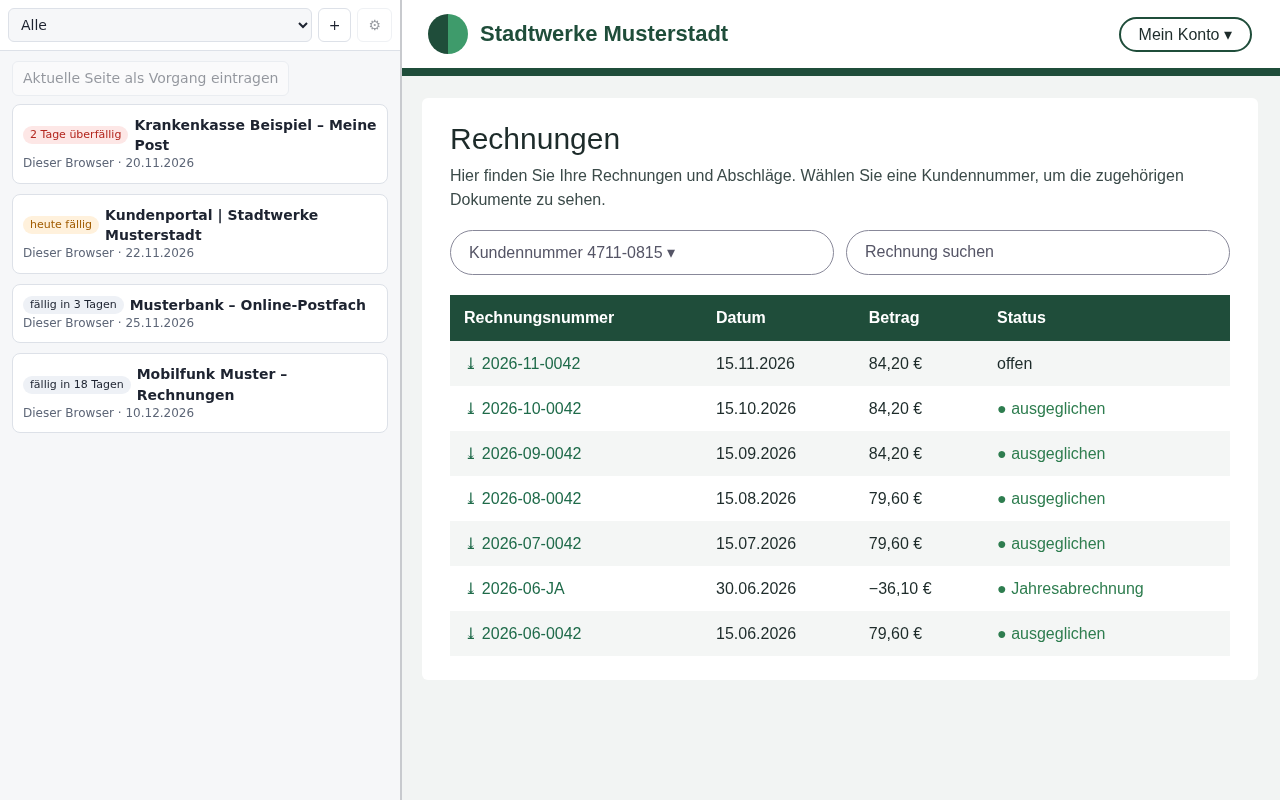
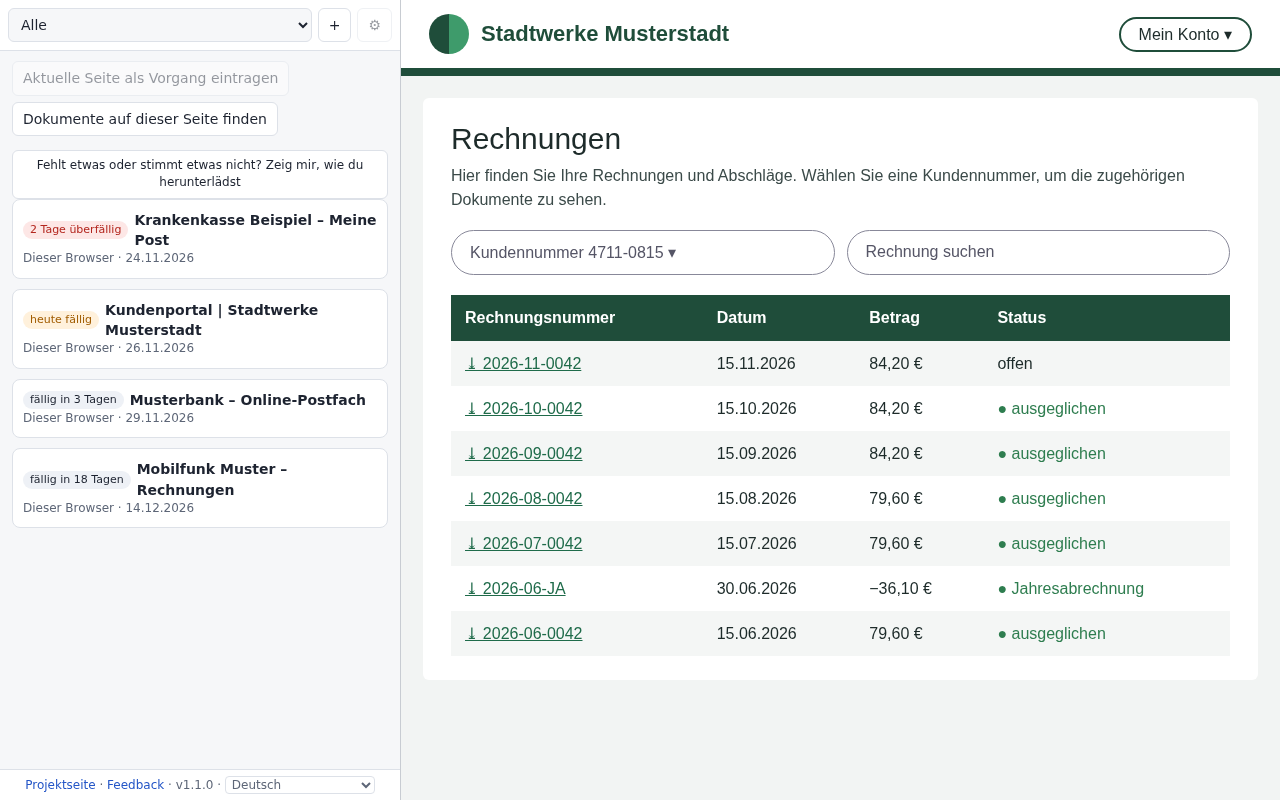
README: the manual linked in both intro boxes; Firefox from its addons.mozilla.org page (listed since 1.1.0); main screenshots retaken with 1.1.0 (find and watch buttons, panel foot)

diff --git a/README.md b/README.md
@@ -1,10 +1,10 @@
 # Portal-Download browser extension
 
 > [!IMPORTANT]
-> **Warum es das gibt.** Rechnungen, Bescheide und Abrechnungen kommen bei vielen Unternehmen nicht mehr per Post oder E-Mail, sondern liegen nur noch in einem Portal, aus dem ich sie mir selbst holen muss. Das ist eine absolute Unart. Jedes Unternehmen hat sein eigenes Portal, ein einheitliches Verfahren gibt es nicht, und der einzige Grund, den ich mir dafür vorstellen kann, ist die Einbildung, so ließe sich die Zustellung beweisen. Mich nervt das gewaltig. portal-download löst das Problem nicht, es macht es für mich nur erträglicher, und zufrieden bin ich damit nicht. Die [GitHub-Diskussionen](https://github.com/schlingensiepen/portal-download-extension/discussions) sind offen und werden gelesen: Tragt dort bitte Erfahrungen, Wünsche, Verbesserungsvorschläge und Bugs ein.
+> **Warum es das gibt.** Rechnungen, Bescheide und Abrechnungen kommen bei vielen Unternehmen nicht mehr per Post oder E-Mail, sondern liegen nur noch in einem Portal, aus dem ich sie mir selbst holen muss. Das ist eine absolute Unart. Jedes Unternehmen hat sein eigenes Portal, ein einheitliches Verfahren gibt es nicht, und der einzige Grund, den ich mir dafür vorstellen kann, ist die Einbildung, so ließe sich die Zustellung beweisen. Mich nervt das gewaltig. portal-download löst das Problem nicht, es macht es für mich nur erträglicher, und zufrieden bin ich damit nicht. Die [GitHub-Diskussionen](https://github.com/schlingensiepen/portal-download-extension/discussions) sind offen und werden gelesen: Tragt dort bitte Erfahrungen, Wünsche, Verbesserungsvorschläge und Bugs ein. Wie die Erweiterung funktioniert, erklärt das [Benutzerhandbuch](https://github.com/schlingensiepen/portal-download-extension/wiki/Benutzerhandbuch) im Wiki.
 
 > [!NOTE]
-> **Why this exists.** Invoices, notices and statements from many companies no longer come by post or e-mail; they sit in a portal, and I have to fetch them myself. That is an utter bad habit. Every company has its own portal, there is no common procedure, and the only reason I can think of is the belief that this proves delivery. It annoys me enormously. portal-download does not solve the problem; it only makes it bearable for me, and I am not happy with it. The [GitHub discussions](https://github.com/schlingensiepen/portal-download-extension/discussions) are open and read: please post your experience, wishes, suggestions and bugs there.
+> **Why this exists.** Invoices, notices and statements from many companies no longer come by post or e-mail; they sit in a portal, and I have to fetch them myself. That is an utter bad habit. Every company has its own portal, there is no common procedure, and the only reason I can think of is the belief that this proves delivery. It annoys me enormously. portal-download does not solve the problem; it only makes it bearable for me, and I am not happy with it. The [GitHub discussions](https://github.com/schlingensiepen/portal-download-extension/discussions) are open and read: please post your experience, wishes, suggestions and bugs there. How the extension works is explained in the [user manual](https://github.com/schlingensiepen/portal-download-extension/wiki/User-Manual) in the wiki.
 
 ![Portal-Download in five slides: motivation, what it does, how to use it, helping with portals that do not work yet, conclusion](store/deck-en.gif)
 
@@ -25,7 +25,7 @@ The extension is for Chrome and Edge 121 or newer, and Firefox 140 or newer.
 
 ## Installing
 
-**Firefox:** install it from [addons.mozilla.org](https://addons.mozilla.org/); search for *Portal-Download* there. It appears there once Mozilla has reviewed it. If the search finds nothing, or to try a newer version, Firefox can load it for the current session only:
+**Firefox:** install it from its page on addons.mozilla.org: <https://addons.mozilla.org/firefox/addon/0ddcaa2ae78346fdb5cc/>, and click *Add to Firefox* there. To try a newer version before it is there, Firefox can load it for the current session only:
 
 1. Download `portal-download-<version>.zip` from a [release](https://github.com/schlingensiepen/portal-download-extension/releases) and unpack it.
 2. Open `about:debugging#/runtime/this-firefox`.
